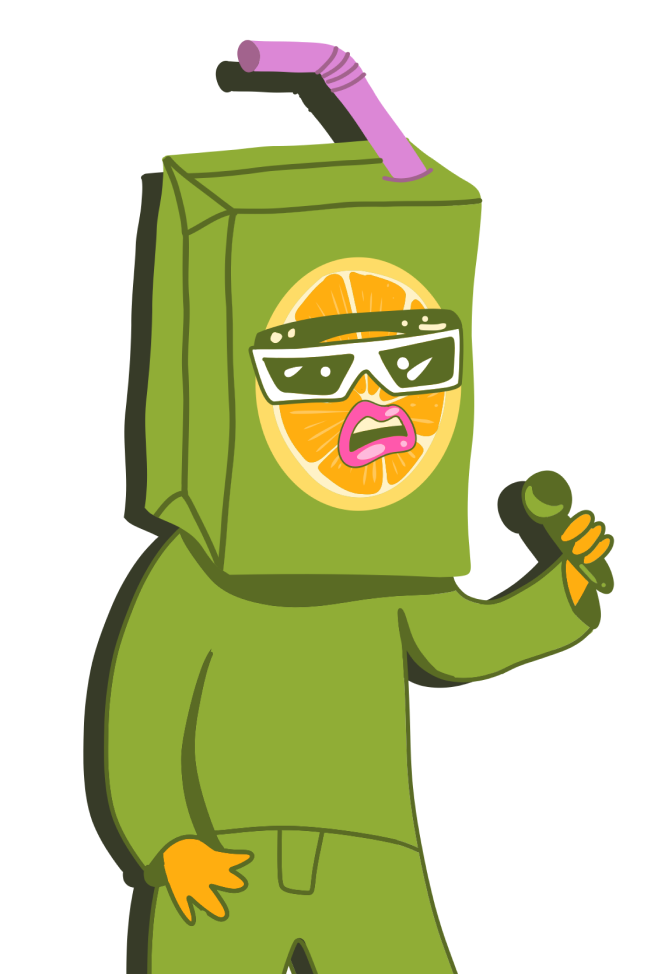
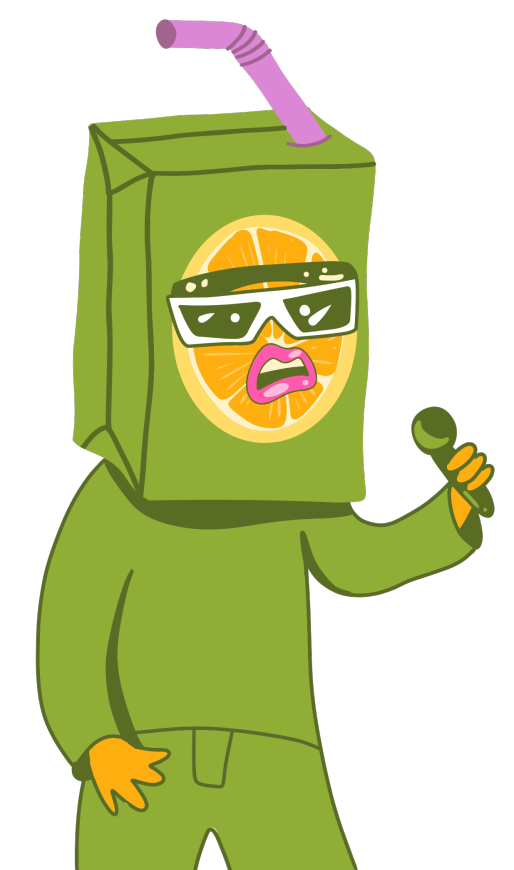
Remove shadow from green orange guy on trending projects (#516)
* remove shadow from green orange guy on trending projects

* crop green_orange.png and align properly on trending section

Changed region(s): [[0.0623, 0.0, 0.965, 1.0], [0.6226, 0.869, 0.716, 1.0], [0.5603, 0.0931, 0.5914, 0.1241]]

diff --git a/src/components/Landing/TrendingSection.tsx b/src/components/Landing/TrendingSection.tsx
@@ -40,10 +40,18 @@ export default function TrendingSection() {
   return (
     <section style={trendingProjectsStyle}>
       <Row style={{ maxWidth: 1200, margin: 'auto' }}>
-        <Col xs={0} lg={8}>
+        <Col
+          xs={0}
+          lg={8}
+          style={{
+            display: 'flex',
+            alignItems: 'flex-end',
+            justifyContent: 'center',
+          }}
+        >
           <img
             className="hide-mobile hide-tablet"
-            style={{ height: 550, marginTop: 46 }}
+            style={{ height: 550 }}
             src="/assets/green_orange.png"
             alt="Green orange singing"
           />
